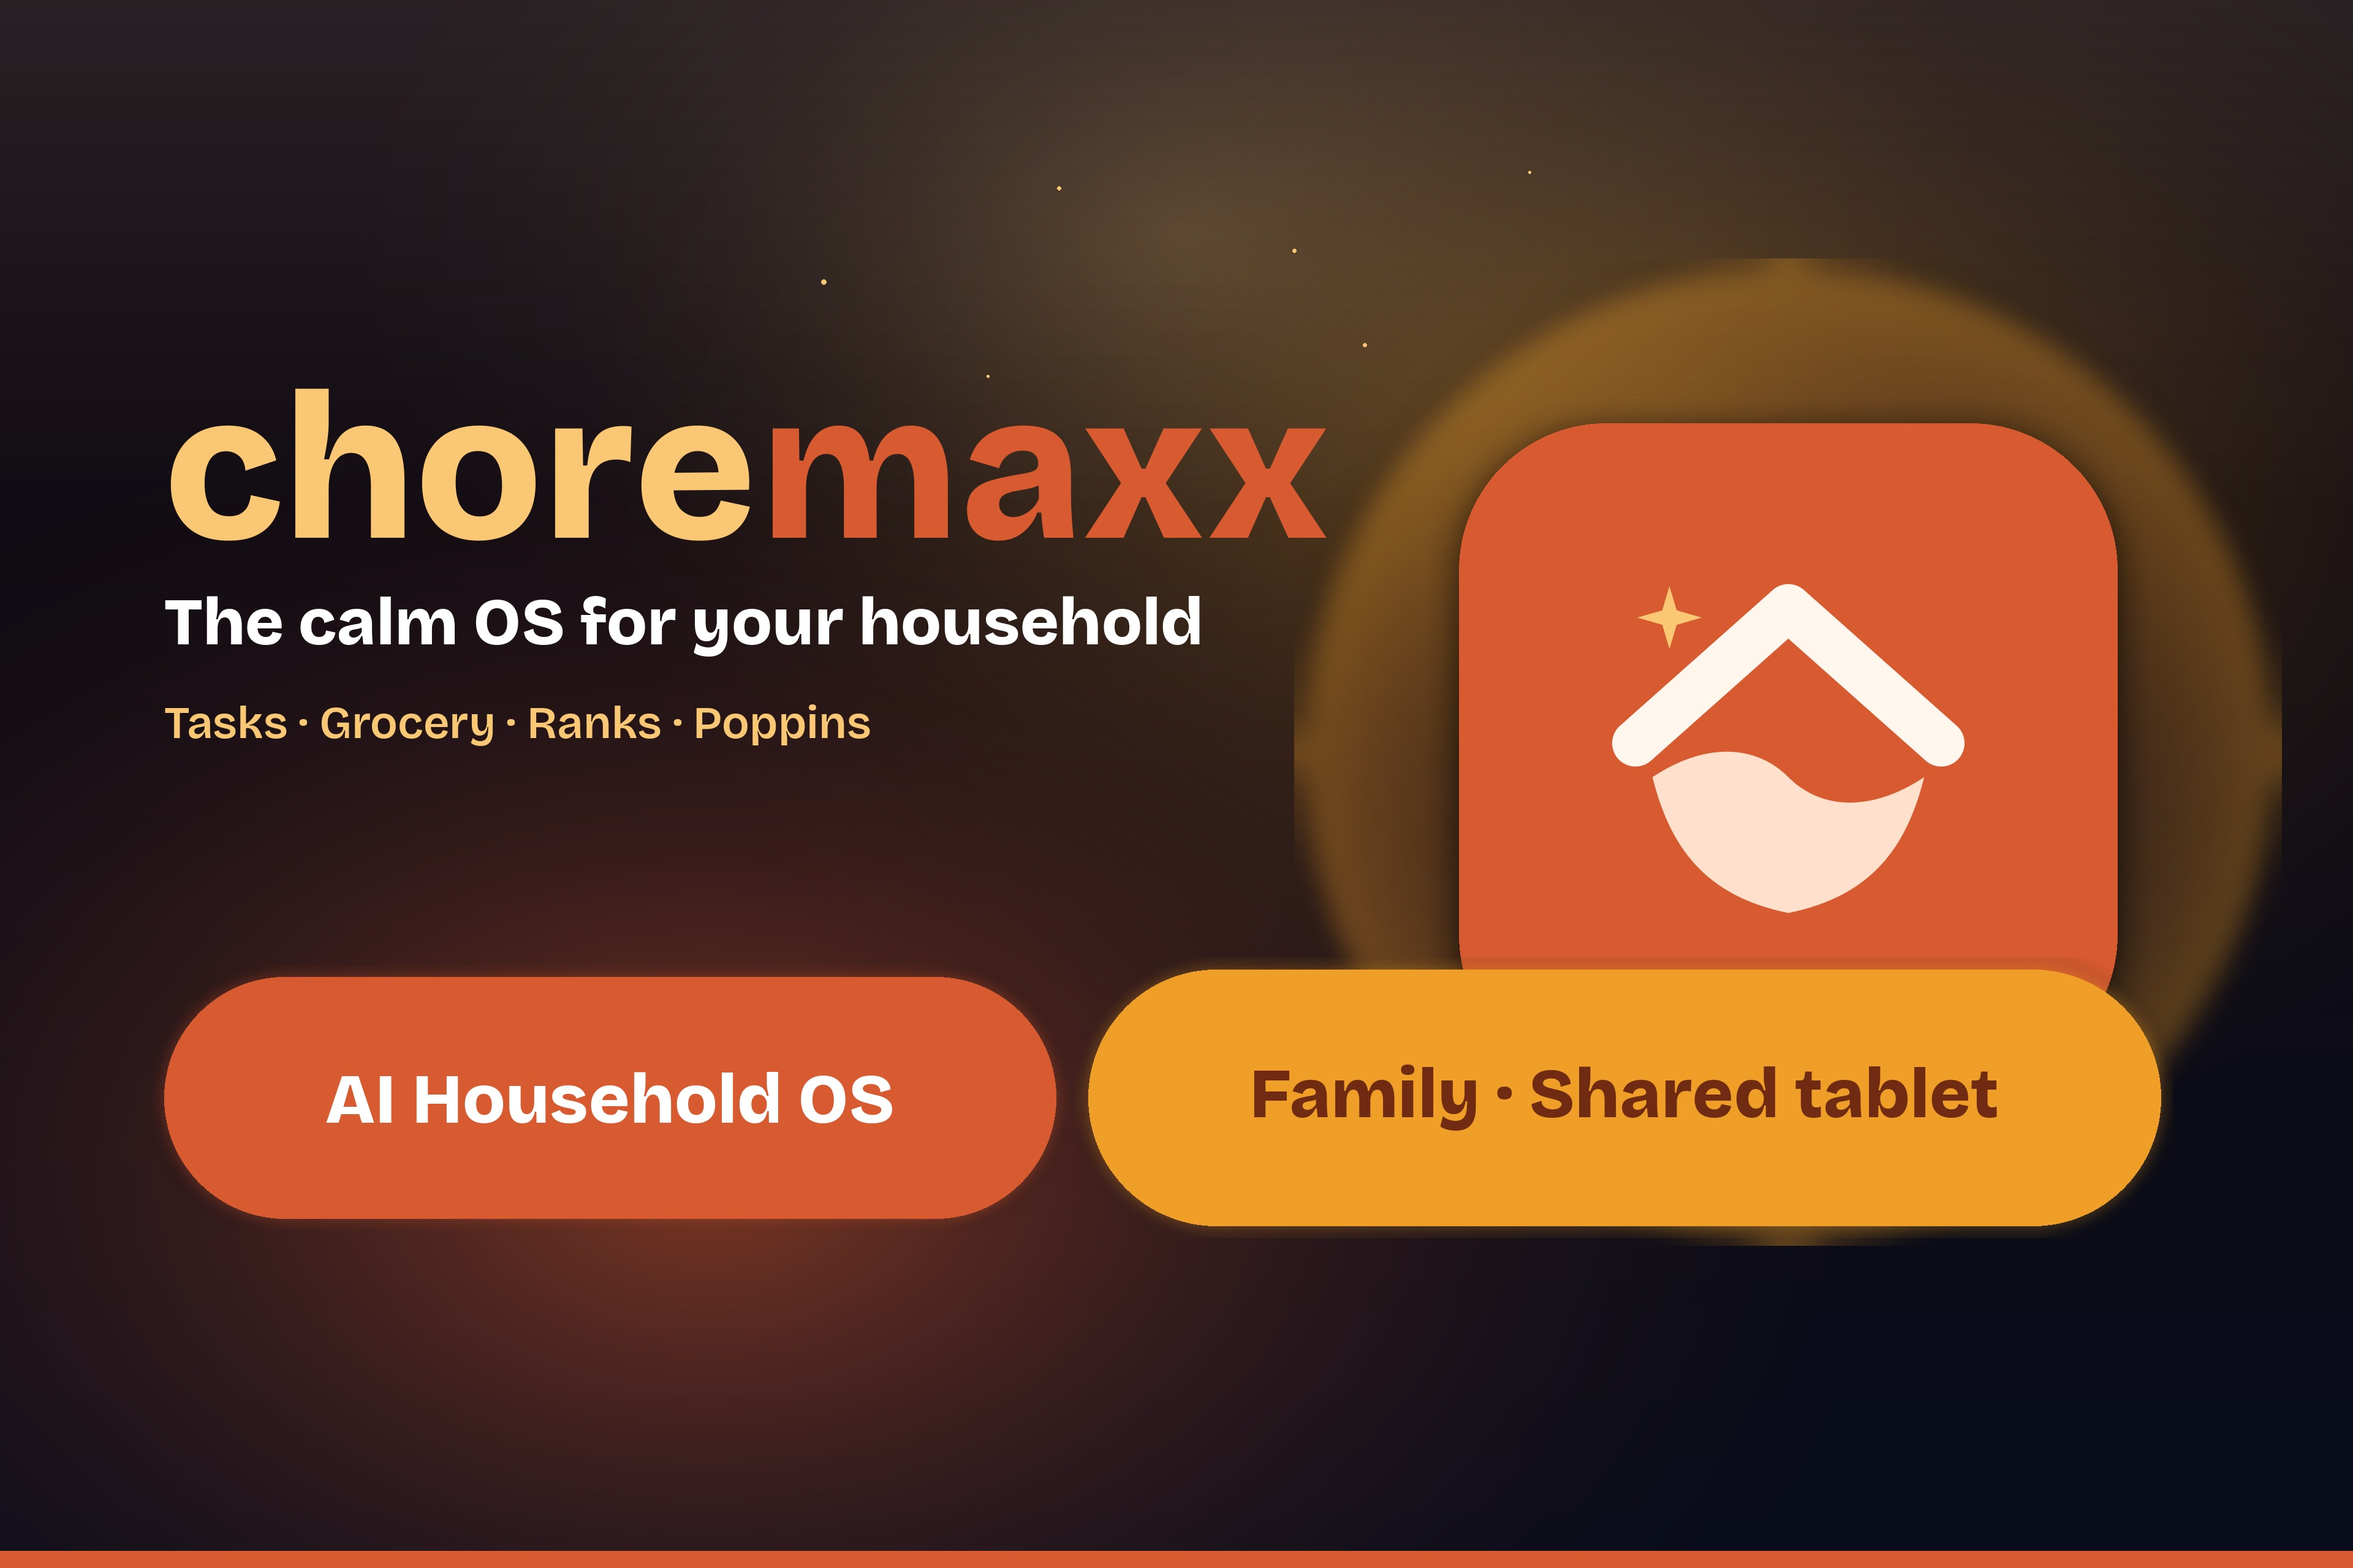
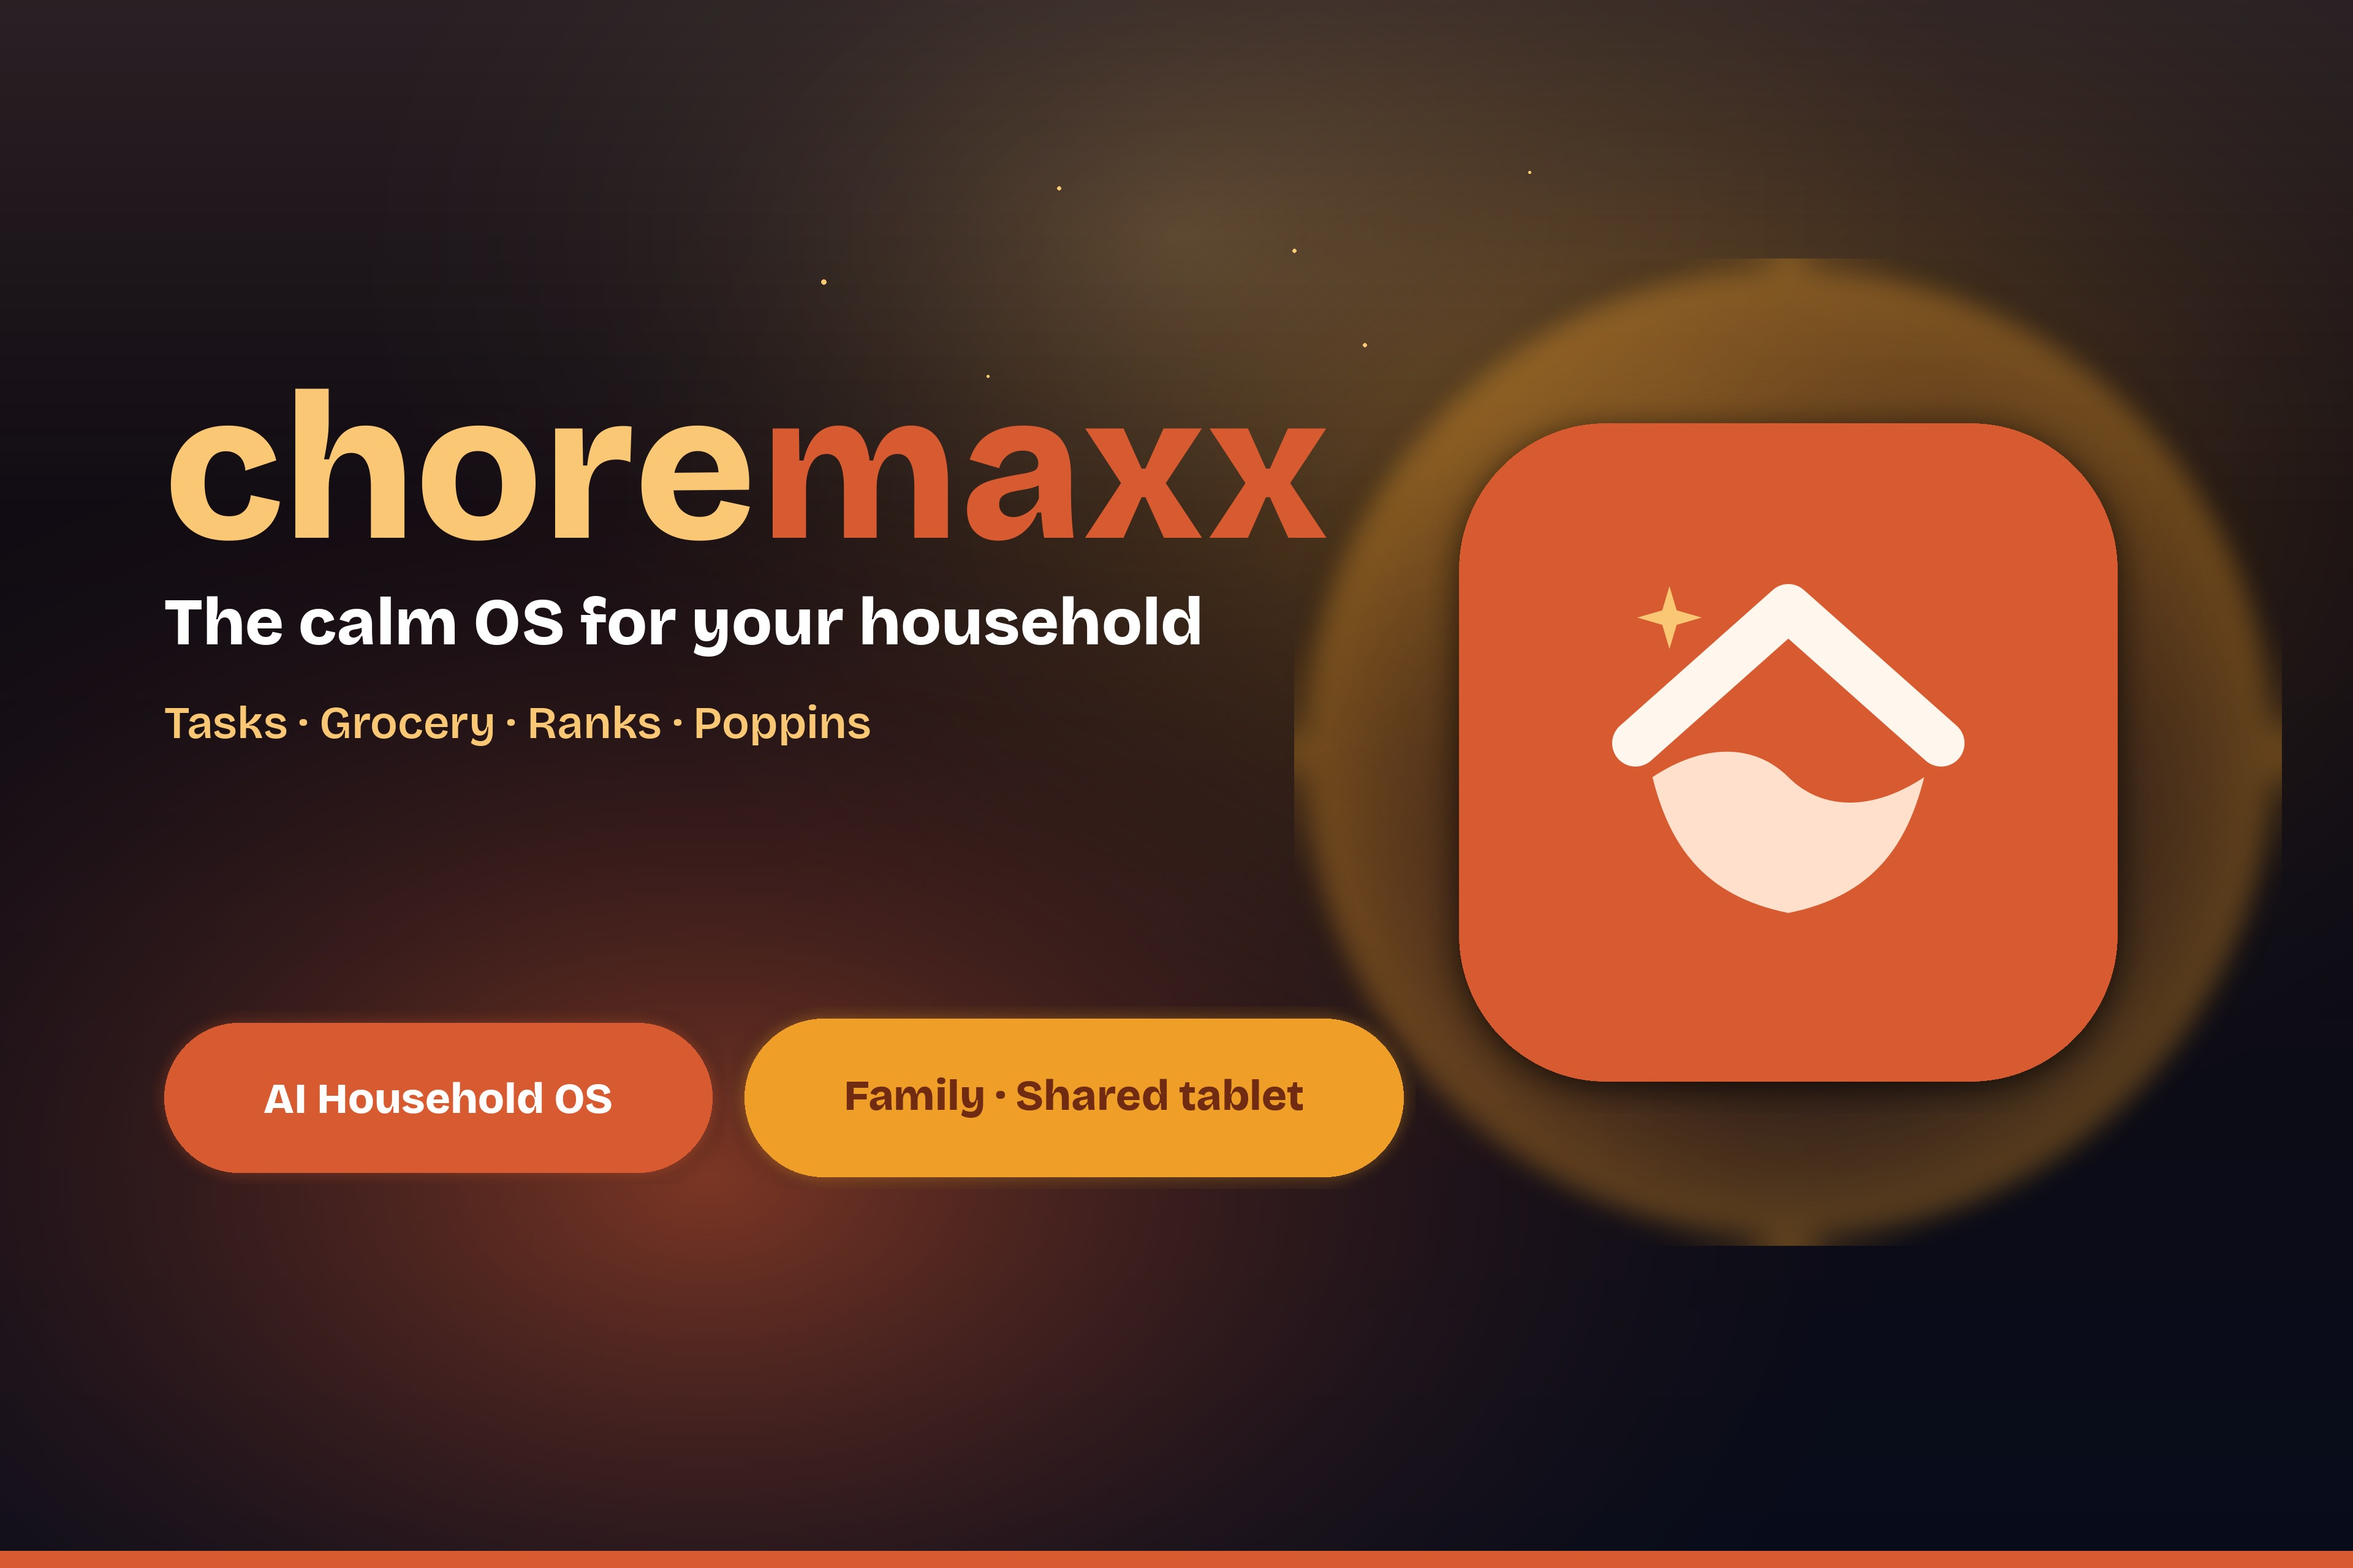
Shrink ASC header/search pills; keep ExtraBold on both labels

Changed region(s): [[0.0625, 0.5938, 0.9375, 0.8125]]

diff --git a/scripts/_asc_product_page_render.py b/scripts/_asc_product_page_render.py
@@ -223,10 +223,10 @@ def compose_header(w: int, h: int) -> Image.Image:
     tag_y = sub_y + int(sh * 1.55)
     d.text((cx - tw // 2 - tbb[0], tag_y), tag, font=f_tag, fill=GOLD)
 
-    # Large blocky pills — ExtraBold, generous padding (roomy capsules)
-    f_pill = font(FONT_XB, max(28, int(title_size * 0.30)))
-    pad_x = max(64, int(title_size * 0.72))
-    pad_y = max(34, int(title_size * 0.42))
+    # Pills — same ExtraBold for both labels; ~25% smaller than prior pass
+    f_pill = font(FONT_XB, max(22, int(title_size * 0.225)))
+    pad_x = max(48, int(title_size * 0.54))
+    pad_y = max(24, int(title_size * 0.315))
     pill_y = tag_y + int(th * 2.6)
     # Keep pills inside safe zone; side by side centered
     left_label, right_label = "AI Household OS", "Family · Shared tablet"
@@ -293,10 +293,10 @@ def compose_search(w: int, h: int) -> Image.Image:
     tag_y = sub_y + int(title_size * 0.55)
     d.text((left, tag_y), "Tasks · Grocery · Ranks · Poppins", font=f_tag, fill=GOLD)
 
-    # Bigger, blockier pills — ExtraBold + heavy padding (roomy capsules)
-    f_pill = font(FONT_XB, max(28, int(title_size * 0.34)))
-    pad_x = max(68, int(title_size * 0.78))
-    pad_y = max(36, int(title_size * 0.46))
+    # Pills — same ExtraBold for both labels; ~38% smaller than prior pass
+    f_pill = font(FONT_XB, max(20, int(title_size * 0.21)))
+    pad_x = max(42, int(title_size * 0.48))
+    pad_y = max(22, int(title_size * 0.285))
     pill_y = int(h * 0.70)
 
     # Stack vertically on narrow canvases; side-by-side when wide
